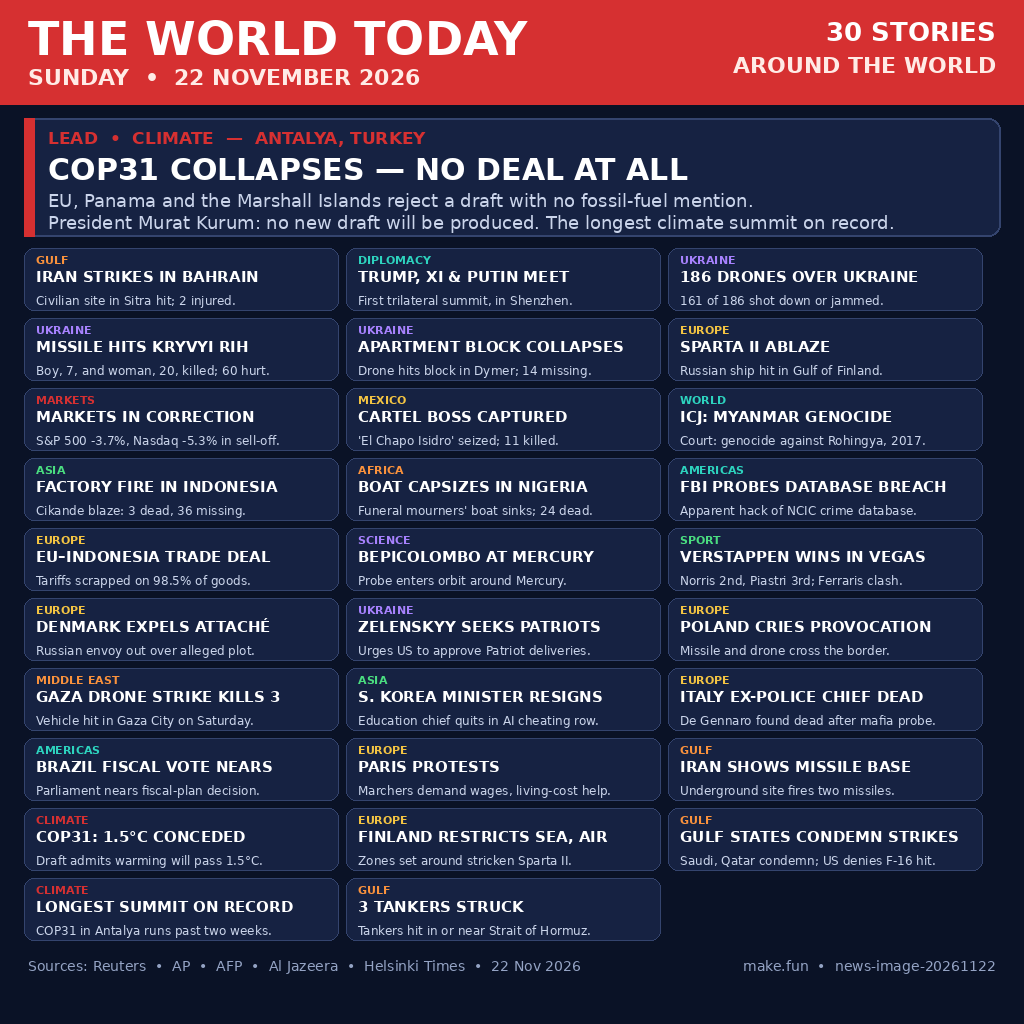
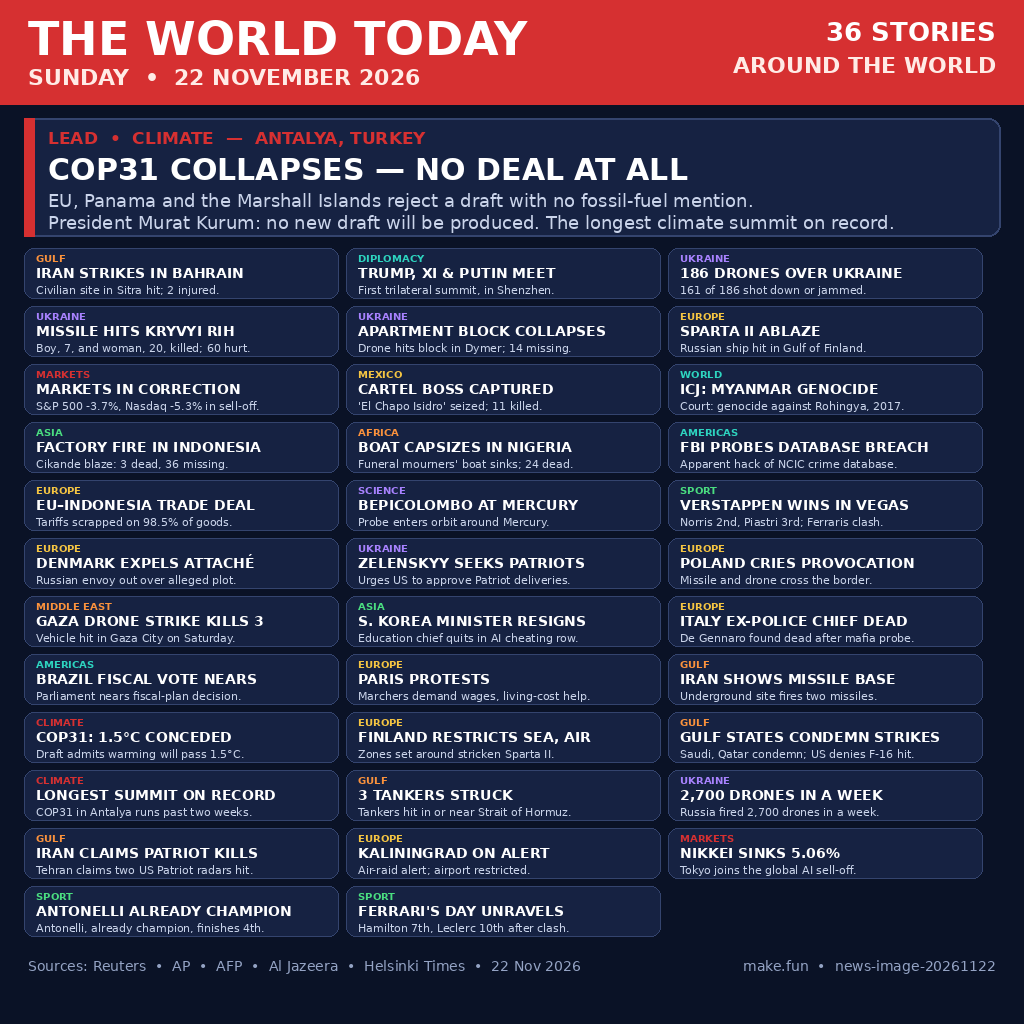
V4: 36-story digest for 22 Nov 2026

Changed region(s): [[0.0, 0.25, 0.9688, 0.9375]]

diff --git a/README.md b/README.md
@@ -4,7 +4,7 @@
 [![rank](https://make.fun/badge/news-image-20261122/rendsstwn/makefun-news-image-20261122/rank.svg)](https://make.fun/bounty/news-image-20261122/leaderboard?utm_source=github&utm_medium=readme&utm_campaign=news-image-20261122)
 [![reward](https://make.fun/badge/news-image-20261122/rendsstwn/makefun-news-image-20261122/reward.svg)](https://make.fun/bounty/news-image-20261122?utm_source=github&utm_medium=readme&utm_campaign=news-image-20261122)
 
-Sum up the world's news of Sunday 22 November 2026 in one image. The entry program writes a 1024x1024 PNG digest of 30 stories from that day: COP31 collapses in Antalya, Iran strikes in Bahrain and tankers near the Strait of Hormuz, Trump, Xi and Putin meet in Shenzhen, 186 drones over Ukraine, a missile hits Kryvyi Rih, the Sparta II ablaze in the Gulf of Finland, markets in correction, a cartel boss captured in Mexico, and 22 more stories from around the world. Sources: Reuters, AP, AFP, Al Jazeera, Helsinki Times, 22 Nov 2026.
+Sum up the world's news of Sunday 22 November 2026 in one image. The entry program writes a 1024x1024 PNG digest of 36 stories from that day: COP31 collapses in Antalya, Iran strikes in Bahrain and tankers near the Strait of Hormuz, Trump, Xi and Putin meet in Shenzhen, 186 drones over Ukraine, a missile hits Kryvyi Rih, the Sparta II ablaze in the Gulf of Finland, markets in correction, a cartel boss captured in Mexico, Verstappen wins in Las Vegas, and 27 more stories from around the world. Sources: Reuters, AP, AFP, Al Jazeera, Helsinki Times, 22 Nov 2026.
 
 ## Run it
 
